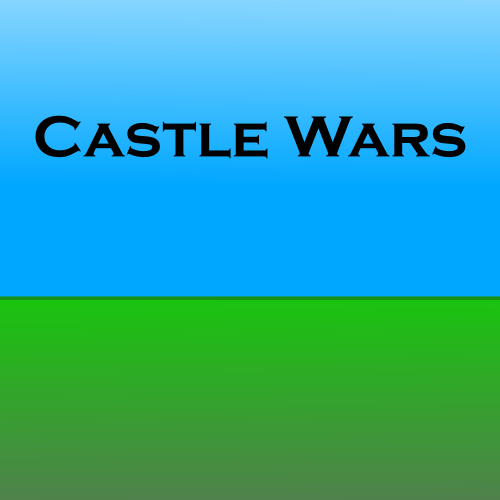
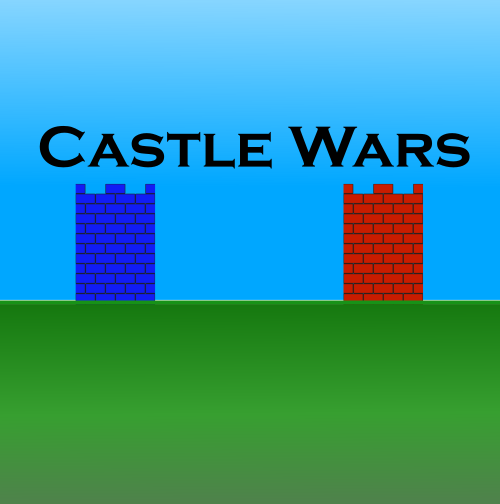
Added Some More Textures for Card Packs

Changed region(s): [[0.0, 0.36, 1.0, 0.78], [0.06, 0.21, 0.54, 0.33], [0.57, 0.21, 0.96, 0.33]]

diff --git a/core/src/com/desitum/castleWars/data/Assets.java b/core/src/com/desitum/castleWars/data/Assets.java
@@ -50,11 +50,16 @@ public class Assets {
     public static Texture popupMenuBackground;
 
     //Game Textures
+    public static Texture playerFlameCastle;
     public static Texture playerCastle;
     public static Texture playerWall;
+    public static Texture computerFlameCastle;
     public static Texture computerCastle;
     public static Texture computerWall;
+    public static Texture flameGround;
     public static Texture gameGround;
+    public static Texture flameSky;
+    public static Texture japaneseSky;
     public static Texture gameSky;
     public static Texture cloud1;
     public static Texture cloud2;
@@ -211,11 +216,16 @@ public class Assets {
 
     public static void loadGameTextures() {
         playerCastle = new Texture("game/player_castle.png");
+        playerFlameCastle = new Texture("game/player_flame_castle.png");
         playerWall = new Texture("game/player_wall.png");
         computerCastle = new Texture("game/computer_castle.png");
+        computerFlameCastle = new Texture("game/computer_flame_castle.png");
         computerWall = new Texture("game/computer_wall.png");
         gameGround = new Texture("game/ground.png");
+        flameGround = new Texture("game/flame_ground.png");
         gameSky = new Texture("game/sky.png");
+        japaneseSky = new Texture("game/japanese_sky.png");
+        flameSky = new Texture("game/flame_sky.png");
         cloud1 = new Texture("game/cloud1.png");
         cloud2 = new Texture("game/cloud2.png");
         cloud3 = new Texture("game/cloud3.png");
